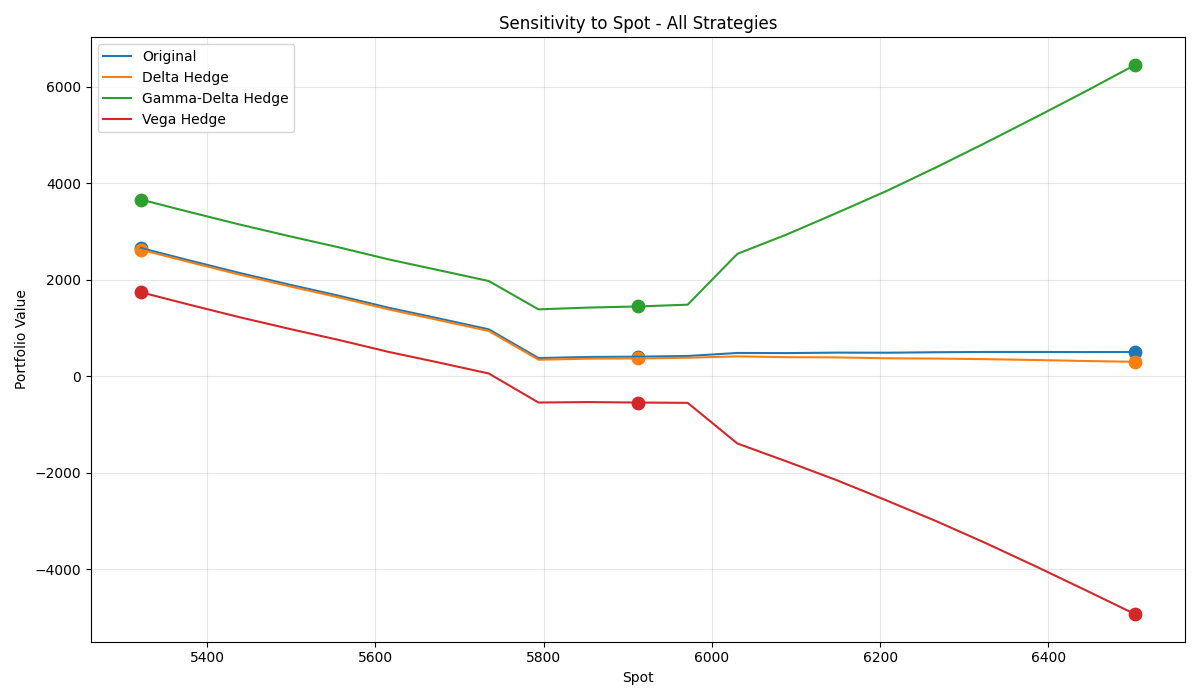
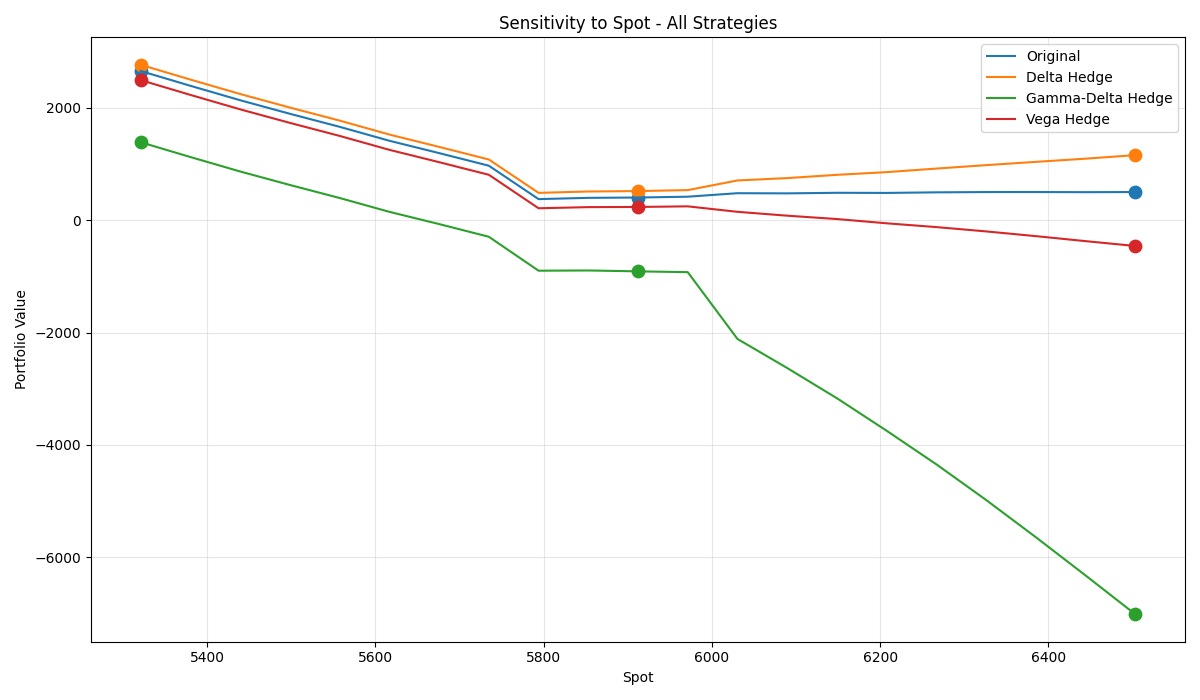
test

diff --git a/app.py b/app.py
@@ -102,7 +102,7 @@ if menu == "Portfolio Analysis - Black-Scholes":
     portfolio = []
     default_values = [
         {'type': 'call', 'style': 'european', 'S': 5912.17, 'K': 5915, 'T': 0.0849, 'r': 0.0421, 'qty': -10, 'market_price': 111.93},
-        {'type': 'put', 'style': 'american', 'S': 5912.17, 'K': 5910, 'T': 0.0849, 'r': 0.0421, 'qty': -5, 'market_price': 106.89},
+        {'type': 'put', 'style': 'european', 'S': 5912.17, 'K': 5910, 'T': 0.0849, 'r': 0.0421, 'qty': -5, 'market_price': 106.89},
         {'type': 'call', 'style': 'european', 'S': 5912.17, 'K': 5920, 'T': 0.0849, 'r': 0.0421, 'qty': 10, 'market_price': 103.66},
         {'type': 'put', 'style': 'european', 'S': 5912.17, 'K': 5900, 'T': 0.0849, 'r': 0.0421, 'qty': 10, 'market_price': 102.92}
     ]
